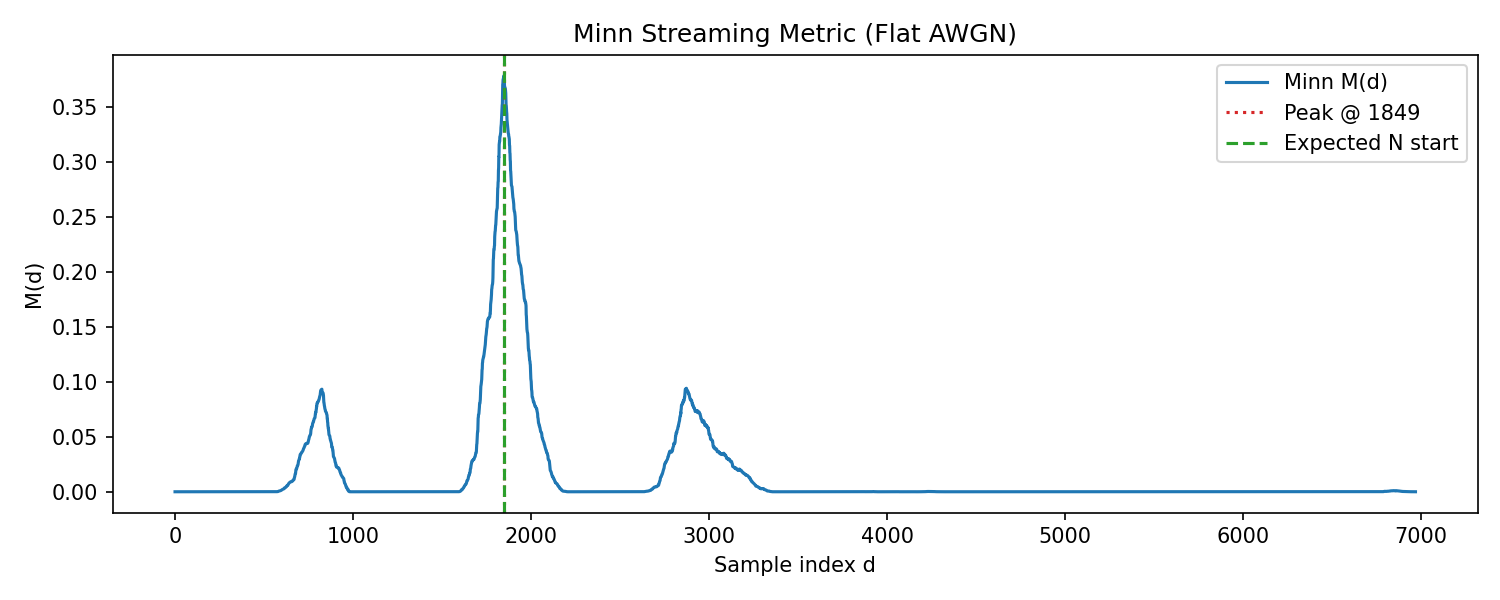
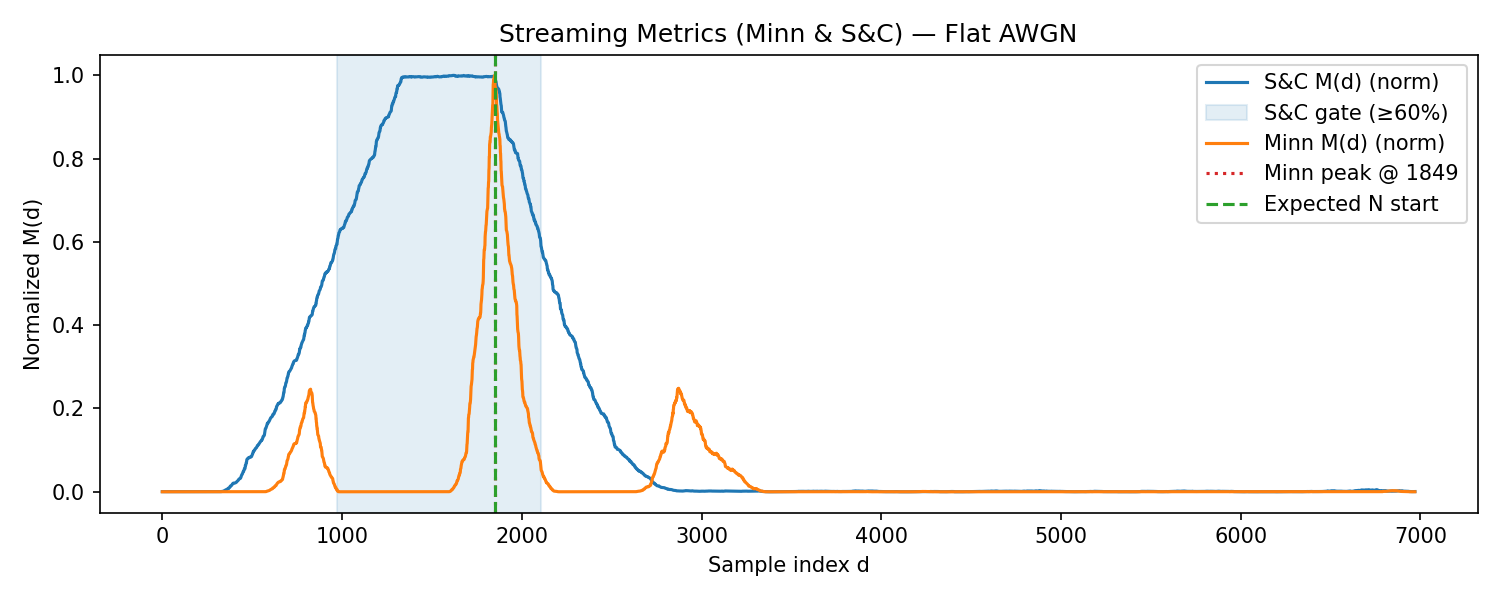
hybrid minn and S&C

diff --git a/minn.py b/minn.py
@@ -113,7 +113,62 @@ def minn_streaming_metric(rx: np.ndarray) -> tuple[np.ndarray, np.ndarray, np.nd
     return M, P_sum, R_sum
 
 
-def find_minn_peak(M: np.ndarray, smooth_win: int = 8) -> int:
+def schmidl_cox_streaming_metric(rx: np.ndarray, symbol_len: int = N_FFT) -> tuple[np.ndarray, np.ndarray, np.ndarray]:
+    """Compute Schmidl & Cox timing metric for a symbol with two identical halves.
+    
+    The metric forms a plateau when the sliding window sits over the repeated
+    halves, which can be used to gate a finer peak search (e.g., Minn metric).
+    
+    Args:
+        rx: Received samples, shape (branches, L) or (L,)
+        symbol_len: Total length of the repeated symbol (default: N_FFT)
+    
+    Returns:
+        M_sc: Timing metric magnitude
+        P_sum: Complex correlation sum between halves
+        R_sum: Energy sum across halves
+    """
+    rx = np.asarray(rx)
+    if rx.ndim == 1:
+        rx = rx[np.newaxis, :]
+    
+    num_branches, L = rx.shape
+    half = symbol_len // 2
+    if half == 0 or symbol_len > L:
+        return np.zeros(0), np.zeros(0, dtype=np.complex128), np.zeros(0)
+    
+    out_len = L - symbol_len + 1
+    P_sum = np.zeros(out_len, dtype=np.complex128)
+    R_sum = np.zeros(out_len, dtype=np.float64)
+    
+    for b in range(num_branches):
+        x = rx[b]
+        Pb = np.empty(out_len, dtype=np.complex128)
+        Rb = np.empty(out_len, dtype=np.float64)
+        
+        for d in range(out_len):
+            first = x[d : d + half]
+            second = x[d + half : d + symbol_len]
+            
+            P = np.sum(first * np.conj(second))
+            R = np.sum(np.abs(first) ** 2 + np.abs(second) ** 2)
+            
+            Pb[d] = P
+            Rb[d] = R
+        
+        P_sum += Pb
+        R_sum += Rb
+    
+    eps = 1e-12
+    M_sc = (np.abs(P_sum) ** 2) / (np.maximum(R_sum, eps) ** 2)
+    return M_sc, P_sum, R_sum
+
+
+def find_minn_peak(
+    M: np.ndarray,
+    smooth_win: int = 8,
+    search_bounds: tuple[int, int] | None = None,
+) -> int:
     """Find timing from Minn metric.
     
     The Minn metric creates a pattern where the peak occurs when the
@@ -126,9 +181,18 @@ def find_minn_peak(M: np.ndarray, smooth_win: int = 8) -> int:
     w = max(1, smooth_win)
     Ms = np.convolve(M, np.ones(w, dtype=float) / w, mode='same')
     
+    if search_bounds is not None:
+        start = max(0, search_bounds[0])
+        end = min(M.size, search_bounds[1])
+        if start >= end:
+            start = 0
+            end = M.size
+    else:
+        start, end = 0, M.size
+    
     # Simply find the global maximum - this is where the window best aligns
     # with the [A, A, -A, -A] structure
-    peak_idx = int(np.argmax(Ms))
+    peak_idx = int(start + np.argmax(Ms[start:end]))
     
     # Adjust: The metric window of size N starts at d, so the detected position
     # represents where the N-sample window starts. For Minn, this should align
@@ -140,6 +204,7 @@ def find_minn_peak(M: np.ndarray, smooth_win: int = 8) -> int:
 SNR_DB = 10.0
 CFO_HZ = 1000.0
 SMOOTH_WIN = 16  # samples for smoothing M(d) before peak detection
+SC_GATE_THRESHOLD = 0.6  # normalized S&C metric threshold for gate
 
 # Base output directory
 PLOTS_BASE_DIR = Path("plots") / "minn"
@@ -188,12 +253,54 @@ def run_simulation(channel_name: str | None, plots_subdir: str):
     # Apply CFO to simulate LO mismatch at the receiver
     rx_samples = apply_cfo(rx_samples, CFO_HZ, SAMPLE_RATE_HZ)
     
-    # Detection metric (Minn)
+    # Detection metrics (Minn + Schmidl & Cox)
     M, P_sum, R_sum = minn_streaming_metric(rx_samples)
-    peak_position = find_minn_peak(M, smooth_win=SMOOTH_WIN)
+    M_sc, P_sc, R_sc = schmidl_cox_streaming_metric(rx_samples)
+    
+    sc_gate_bounds: tuple[int, int] | None = None
+    sc_norm: np.ndarray | None = None
+    max_sc = 0.0
+    if M_sc.size > 0:
+        max_sc = float(np.max(M_sc))
+        if max_sc > 0:
+            sc_norm = M_sc / max_sc
+            sc_plateau_mask = sc_norm >= SC_GATE_THRESHOLD
+            if np.any(sc_plateau_mask):
+                best_len = 0
+                best_bounds: tuple[int, int] | None = None
+                start_idx: int | None = None
+                for idx, flag in enumerate(sc_plateau_mask):
+                    if flag and start_idx is None:
+                        start_idx = idx
+                    elif not flag and start_idx is not None:
+                        length = idx - start_idx
+                        if length > best_len:
+                            best_len = length
+                            best_bounds = (start_idx, idx)
+                        start_idx = None
+                if start_idx is not None:
+                    length = sc_plateau_mask.size - start_idx
+                    if length > best_len:
+                        best_len = length
+                        best_bounds = (start_idx, sc_plateau_mask.size)
+                if best_bounds is not None and best_len > 0:
+                    sc_gate_bounds = best_bounds
+    
+    peak_position = find_minn_peak(
+        M,
+        smooth_win=SMOOTH_WIN,
+        search_bounds=sc_gate_bounds,
+    )
     
     # The Minn peak aligns to the start of the N-length symbol (CP end)
     detected_start = peak_position
+    
+    minn_norm: np.ndarray | None = None
+    max_m = 0.0
+    if M.size > 0:
+        max_m = float(np.max(M))
+        if max_m > 0:
+            minn_norm = M / max_m
     
     # Ground-truth alignment helpers
     channel_peak_offset = compute_channel_peak_offset(channel_impulse_response)
@@ -213,13 +320,25 @@ def run_simulation(channel_name: str | None, plots_subdir: str):
     channel_desc = f"Measured CIR '{channel_name}'" if channel_name else "Flat AWGN"
     
     plt.figure(figsize=(10, 4))
-    plt.plot(M, label="Minn M(d)")
-    plt.axvline(peak_position, color="tab:red", linestyle=":", label=f"Peak @ {peak_position}")
+    if sc_norm is not None:
+        plt.plot(sc_norm, label="S&C M(d) (norm)", color="tab:blue", linestyle="-")
+        if sc_gate_bounds is not None:
+            gate_label = f"S&C gate (≥{SC_GATE_THRESHOLD:.0%})"
+            plt.axvspan(sc_gate_bounds[0], sc_gate_bounds[1], color="tab:blue", alpha=0.12, label=gate_label)
+    elif M_sc.size > 0:
+        plt.plot(M_sc, label="S&C M(d)", color="tab:blue", linestyle="-")
+    if minn_norm is not None:
+        plt.plot(minn_norm, label="Minn M(d) (norm)", color="tab:orange")
+    else:
+        plt.plot(M, label="Minn M(d)", color="tab:orange")
+    plt.axvline(peak_position, color="tab:red", linestyle=":", label=f"Minn peak @ {peak_position}")
     plt.axvline(expected_n_start, color="tab:green", linestyle="--", label="Expected N start")
     plt.xlabel("Sample index d")
-    plt.ylabel("M(d)")
-    plt.title(f"Minn Streaming Metric ({channel_desc})")
+    plt.ylabel("Normalized M(d)" if minn_norm is not None or sc_norm is not None else "M(d)")
+    plt.title(f"Streaming Metrics (Minn & S&C) — {channel_desc}")
     plt.legend(loc="upper right")
+    if minn_norm is not None or sc_norm is not None:
+        plt.ylim(-0.05, 1.05)
     plt.tight_layout()
     plt.savefig(metric_plot_path, dpi=150)
     plt.close()
@@ -238,12 +357,23 @@ def run_simulation(channel_name: str | None, plots_subdir: str):
     axes[0].set_title(f"Received Magnitude and Detected Start (Minn, {channel_desc})")
     axes[0].legend(loc="upper right")
     
-    axes[1].plot(M, label="Minn M(d)")
-    axes[1].axvline(peak_position, color="tab:red", linestyle=":", label=f"Peak @ {peak_position}")
+    if sc_norm is not None:
+        axes[1].plot(sc_norm, label="S&C M(d) (norm)", color="tab:blue")
+        if sc_gate_bounds is not None:
+            axes[1].axvspan(sc_gate_bounds[0], sc_gate_bounds[1], color="tab:blue", alpha=0.12)
+    elif M_sc.size > 0:
+        axes[1].plot(M_sc, label="S&C M(d)", color="tab:blue")
+    if minn_norm is not None:
+        axes[1].plot(minn_norm, label="Minn M(d) (norm)", color="tab:orange")
+    else:
+        axes[1].plot(M, label="Minn M(d)", color="tab:orange")
+    axes[1].axvline(peak_position, color="tab:red", linestyle=":", label=f"Minn peak @ {peak_position}")
     axes[1].axvline(expected_n_start, color="tab:green", linestyle="--", label="Expected N start")
     axes[1].set_xlabel("Sample index d")
-    axes[1].set_ylabel("M(d)")
-    axes[1].set_title("Sharp Peak-Based Timing (Minn)")
+    axes[1].set_ylabel("Normalized M(d)" if minn_norm is not None or sc_norm is not None else "M(d)")
+    axes[1].set_title("Timing Metrics (Minn & S&C)")
+    if minn_norm is not None or sc_norm is not None:
+        axes[1].set_ylim(-0.05, 1.05)
     axes[1].legend(loc="upper right")
     
     fig.tight_layout()
@@ -304,6 +434,11 @@ def run_simulation(channel_name: str | None, plots_subdir: str):
     print(f"  Detected Minn peak at d={peak_position}")
     print(f"  Expected N start at d={expected_n_start}")
     print(f"  Timing error: {timing_error} samples ({abs(timing_error)/N_FFT*100:.1f}% of symbol)")
+    if sc_gate_bounds is not None:
+        gate_start, gate_end = sc_gate_bounds
+        print(
+            f"  S&C gate window: [{gate_start}, {gate_end}) (norm ≥ {SC_GATE_THRESHOLD:.0%}, span {gate_end - gate_start} samples)",
+        )
     print(f"\nCarrier Frequency Offset:")
     print(f"  Applied CFO: {CFO_HZ} Hz")
     print(f"  Estimated CFO from CP: {cfo_est_hz:.2f} Hz")

diff --git a/zc.py b/zc.py
@@ -262,3 +262,4 @@ def main():
 
 if __name__ == "__main__":
     main()
+
